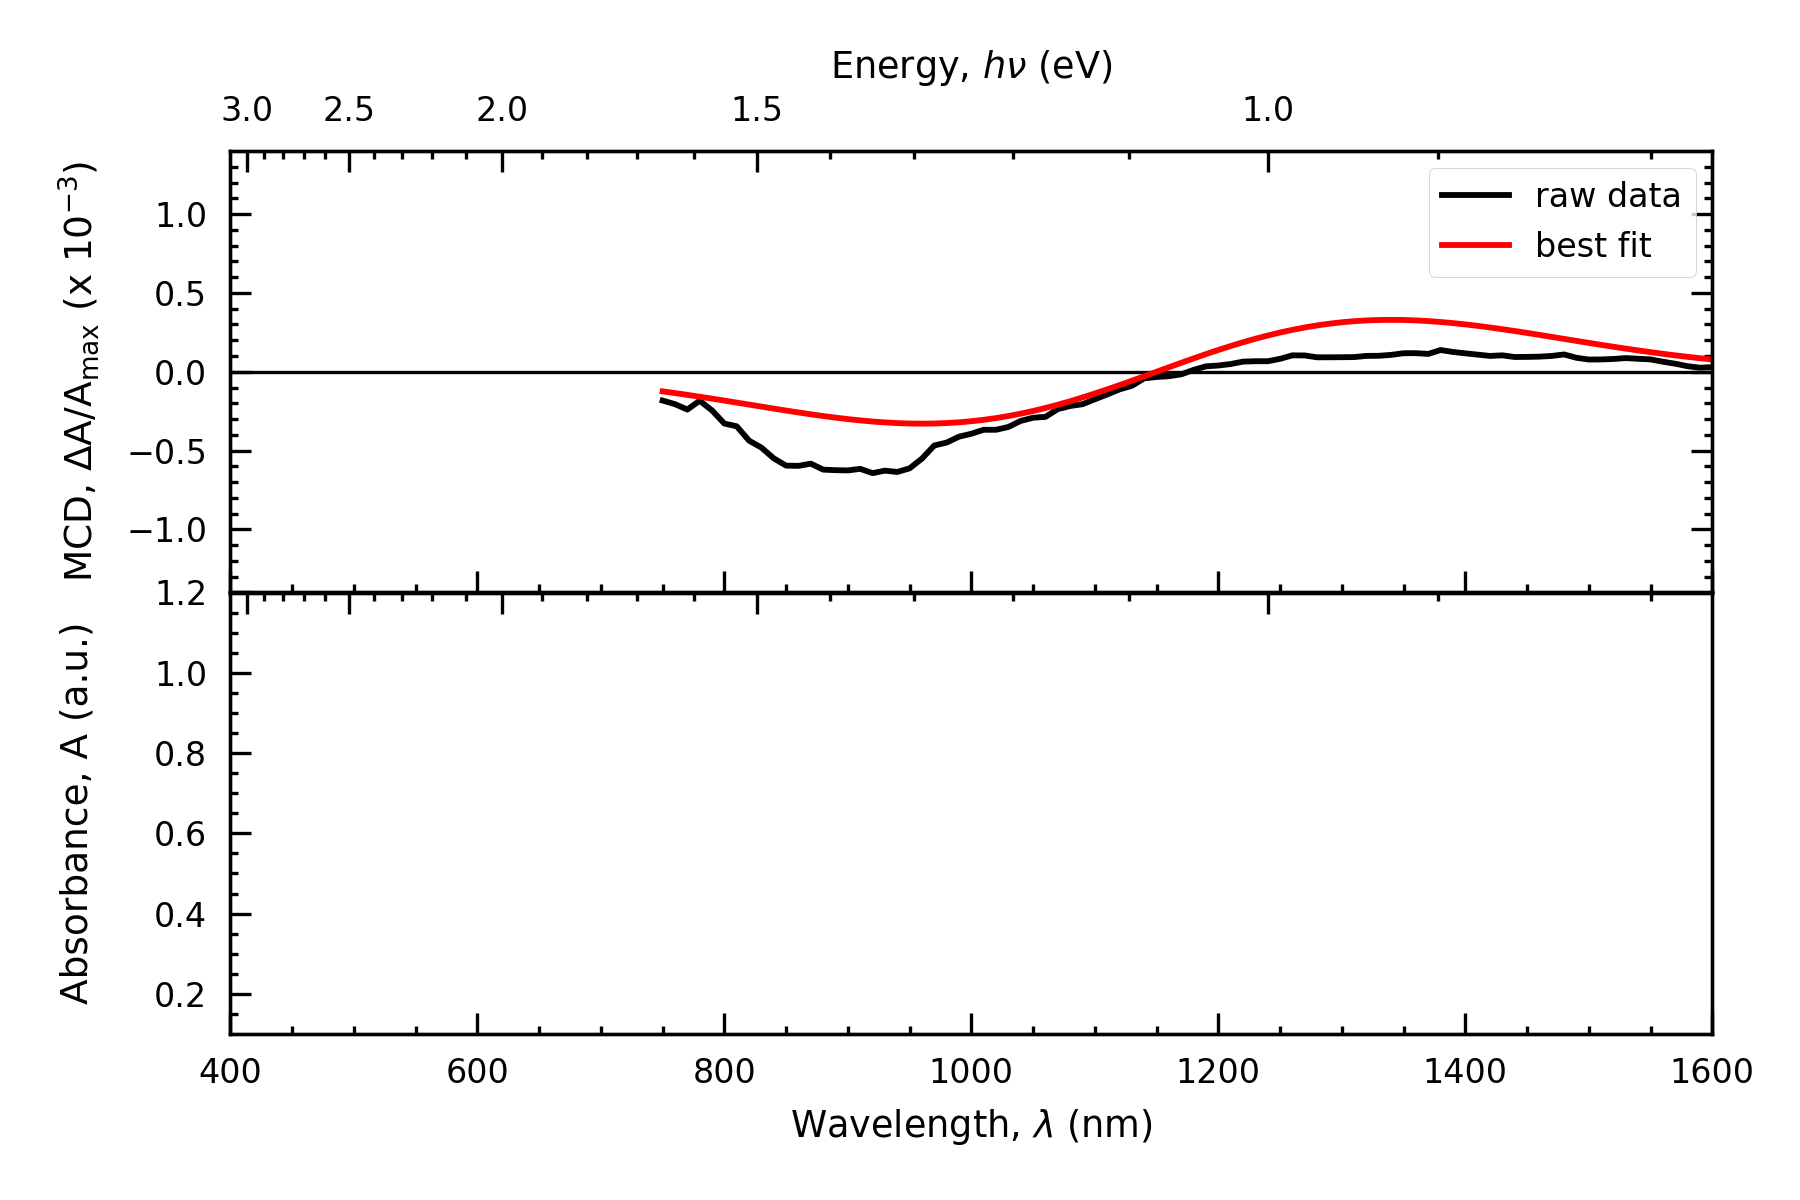
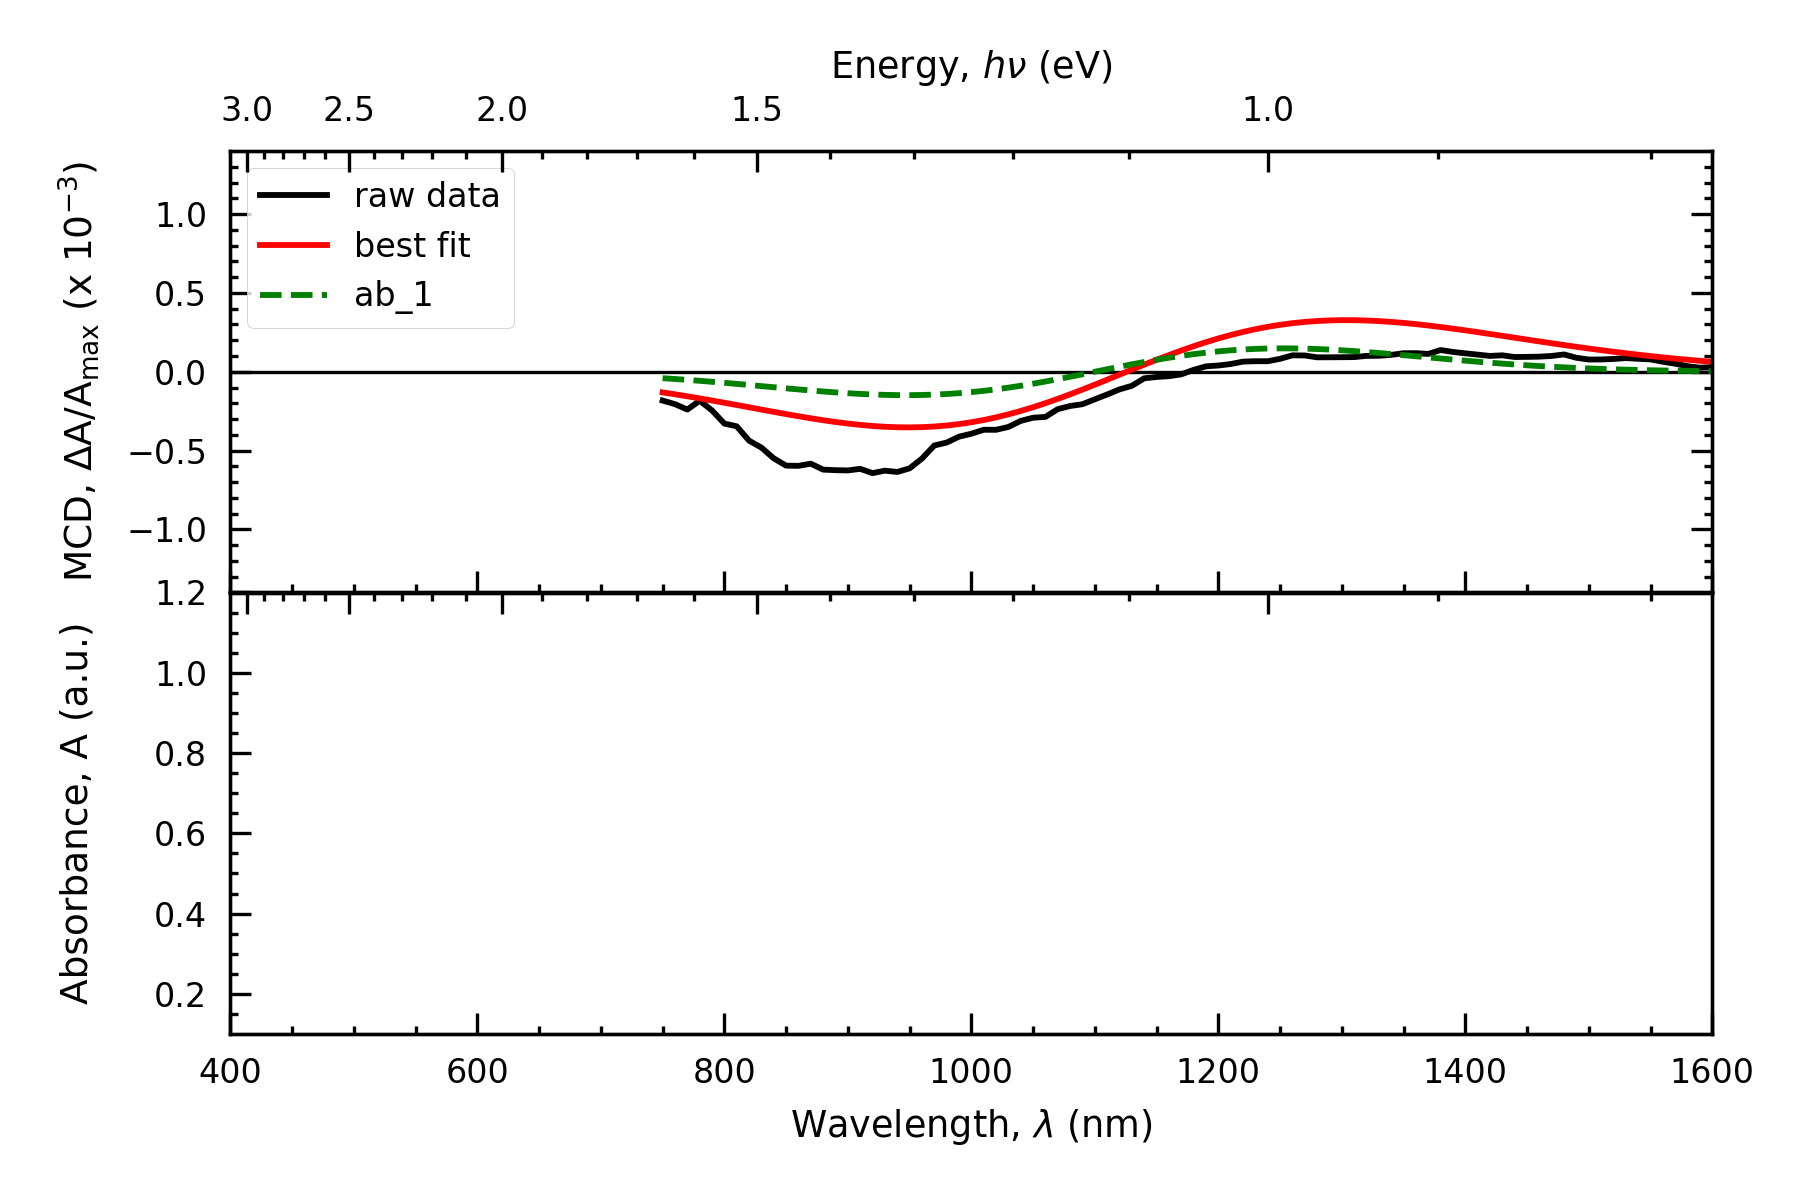
updated lambda and termftting .py

diff --git a/mcd/fitting/term_fitting.py b/mcd/fitting/term_fitting.py
@@ -11,6 +11,7 @@ from scipy import optimize
 from scipy.stats import linregress
 from matplotlib.ticker import (MultipleLocator, AutoMinorLocator)
 from lmfit.models import ExpressionModel
+from lmfit import Model
 
 def getWavelength(eV):
     return 1240/eV
@@ -227,33 +228,46 @@ if __name__ == '__main__':
     # a_term_model = ExpressionModel('ampA * (x-cen) * exp(-wid*(x-cen)**2)')
     # b_term_model = ExpressionModel('ampB * exp(-wid*(x-cen)**2)')
 
-    ab_term_model1 = ExpressionModel('ampA1 * (x-cen1) * exp(-wid1*(x-cen1)**2) + ampB1 * exp(-wid1*(x-cen1)**2)')
-    ab_term_model2 = ExpressionModel('ampA2 * (x-cen2) * exp(-wid2*(x-cen2)**2) + ampB2 * exp(-wid2*(x-cen2)**2)')
-    ab_term_model3 = ExpressionModel('ampA3 * (x-cen3) * exp(-wid3*(x-cen3)**2) + ampB3 * exp(-wid3*(x-cen3)**2)')
-    ab_term_model4 = ExpressionModel('ampA4 * (x-cen4) * exp(-wid4*(x-cen4)**2) + ampB2 * exp(-wid4*(x-cen4)**2)')
+    def ab_term_model1(x, ampA1, ampB1, cen1, wid1):
+        y = ampA1 * (x-cen1) * exp(-wid1*(x-cen1)**2) + ampB1 * exp(-wid1*(x-cen1)**2)
+        return y
 
-    pars = ab_term_model1.make_params()
+    def ab_term_model2(x, ampA2, ampB2, cen2, wid2):
+        y = ampA2 * (x-cen2) * exp(-wid2*(x-cen2)**2) + ampB2 * exp(-wid2*(x-cen2)**2)
+        return y
+
+    ab_term_model_total = Model(ab_term_model1) + Model(ab_term_model2)
+
+    
+
+    # ab_term_model1 = ExpressionModel('ampA1 * (x-cen1) * exp(-wid1*(x-cen1)**2) + ampB1 * exp(-wid1*(x-cen1)**2)')
+    # ab_term_model2 = ExpressionModel('ampA2 * (x-cen2) * exp(-wid2*(x-cen2)**2) + ampB2 * exp(-wid2*(x-cen2)**2)')
+    # ab_term_model3 = ExpressionModel('ampA3 * (x-cen3) * exp(-wid3*(x-cen3)**2) + ampB3 * exp(-wid3*(x-cen3)**2)')
+    # ab_term_model4 = ExpressionModel('ampA4 * (x-cen4) * exp(-wid4*(x-cen4)**2) + ampB2 * exp(-wid4*(x-cen4)**2)')
+
+    ### Might have to 
+
+    # ab_term_model_total = ab_term_model1 + ab_term_model2
+    
+    pars = ab_term_model_total.make_params()
     pars['ampA1'].set(value=0.002, min=0, max=2)
     pars['ampB1'].set(value=0, vary=False)
-    pars['cen1'].set(value=1150,vary=False)
+    pars['cen1'].set(value=1150, vary=False)
     pars['wid1'].set(fwhm(500))
-
-    pars.update(ab_term_model2.make_params())
     pars['ampA2'].set(value=0.002, min=0, max=2)
     pars['ampB2'].set(value=0, vary=False)
-    pars['cen2'].set(value=1100,vary=False)
+    pars['cen2'].set(value=1100, vary=False)
     pars['wid2'].set(fwhm(500))
 
-    ab_term_model_total = ab_term_model1+ab_term_model2
+    print(pars)
 
-    init_fit = ab_term_model_total.eval(pars, x=x)
+    # init_fit = ab_term_model_total.eval(pars, x=x)
     fitting_result = ab_term_model_total.fit(y, pars, x=x)
 
     print(fitting_result.fit_report(min_correl=0.5))
 
     comps = fitting_result.eval_components(x=x)
-    print(comps)
-
+    
     plt.clf()
     fig = plt.figure(figsize=(6,4))
     gs = gridspec.GridSpec(2,1, height_ratios=[1,1])
@@ -264,8 +278,8 @@ if __name__ == '__main__':
     ax1.plot(x, y, 'k-', label='raw data')
     # ax1.plot(x, fitting_result.init_fit, 'k--', label='initial fit')
     ax1.plot(x, fitting_result.best_fit, 'r-', label='best fit')
-    ax1.plot(x, comps[0],'g--',label='ab_1')
-    ax1.plot(x, comps[1],'m--',label='ab_2')
+    ax1.plot(x, list(comps.values())[0],'g--',label='ab_1')
+    ax1.plot(x, list(comps.values())[1],'m--',label='ab_2')
     ax1.legend(loc='best')
     ax2.set_xlabel(r'Wavelength, $\lambda$ (nm)')
     ax1.set_ylabel(r'MCD, $\Delta$A/A$_{\mathrm{max}}$ (x $10^{-3}$)',labelpad=6, size=9)

diff --git a/abs/lambda950/lambda950.py b/abs/lambda950/lambda950.py
@@ -1,8 +1,10 @@
+import sys
 import os
 import pandas as pd
 import numpy as np
 from matplotlib import pyplot as plt
 import seaborn as sns
+from matplotlib.ticker import (MultipleLocator, AutoMinorLocator)
 
 def parse_folder(path):
     d={}
@@ -26,42 +28,57 @@ def parse_folder(path):
                 pass
     return d, d2
 
-def plot_abs(dic,xdata='nm',title='[PH]'):
+def plot_abs(dic,xdata='nm',title='[PH]',save=''):
     fig,ax=plt.subplots(figsize=(8,4))
     for name, df in dic.items():
-        sns.lineplot(data=df,x=xdata,y=' A', linewidth=1, label=name, legend='brief')
+        sns.lineplot(data=df,x=xdata,y=' A', linewidth=1, label=name)
+        wavelength_peak = df.loc[df[' A'] == df[' A'].loc[150:1000].max(),'nm'].iloc[0]
+        print(str(wavelength_peak) + ' at ' + name.replace('.', ',').split(',')[1])
+        if xdata == 'nm':
+            plt.plot([wavelength_peak,wavelength_peak],[0,10],'k--',lw=0.8, label=str(wavelength_peak) + ' nm')
+        elif xdata == 'eV':
+            wavelength_peak = round(1240/wavelength_peak,4)
+            plt.plot([wavelength_peak,wavelength_peak],[0,10],'k--',lw=0.8, label=str(wavelength_peak) + ' eV')
     if xdata is 'nm':
         plt.xlabel('Wavelength (nm)')
+        plt.xlim(400,3000)
+        ax.xaxis.set_major_locator(MultipleLocator(200))
     if xdata is 'eV':
         plt.xlabel('Energy (eV)')
+        plt.xlim(4,0.5)
+        ax.xaxis.set_major_locator(MultipleLocator(0.5))
+    ax.xaxis.set_minor_locator(AutoMinorLocator())
+    plt.ylim(0,1.5)
     plt.title(title +' Absorbance')
     plt.ylabel('Absorbance (a.u.)')
-    # plt.xlim(1.55,.75)
-    # plt.ylim()
+
+    plt.legend(loc='best')
     plt.style.use('seaborn-paper')
-    plt.savefig(title + '_abs',dpi=200,bbox_inches='tight')
+    plt.savefig(save + title + '.png',dpi=200,bbox_inches='tight')
     plt.show()
 
-directory = '/mnt/c/users/roflc/Downloads/3-23-21_scan/'
-# sample_list_path = directory + 'Sample Table.csv'
+if __name__ == '__main__':
 
-sample_files, ref_files = parse_folder(directory)
-print(sample_files)
+    working_path = '/home/jkusz/github/igloo/abs/lambda950/testing/'
+    os.chdir(working_path)
 
-plot_abs(sample_files,title='CFS Tests')
+    data_path = '/mnt/c/users/roflc/Dropbox/Research/FSU/Strouse/Projects/WO3-x/UVVISNIR/WO2,9 scan/'
+    save_directory='/mnt/c/users/roflc/Dropbox/Research/FSU/Strouse/Projects/WO3-x/UVVISNIR/figures/'
+    # save_directory = '/home/jkusz/github/igloo/abs/lambda950/testing/'
 
-# xlabel='Wavelength (nm)'
-# ylabel='Abs'
+    # sample_list_path = directory + 'Sample Table.csv'
 
-# x=df[xlabel]
-# y=df[ylabel]
+    sample_files, ref_files = parse_folder(data_path)
+    # print(sample_files)
 
-# plt.plot(x,y,color='black')
-# plt.xlabel(xlabel)
-# plt.ylabel(ylabel)
-# plt.xlim(275,1100)
-# plt.ylim(0,1)
-# plt.show()
+    plot_abs(sample_files,title='WO2,9',save=save_directory)
+    plot_abs(sample_files,xdata='eV',title='WO2,9_eV',save=save_directory)
 
-# save_directory='/home/jkusz/github/igloo/abs/'
-# plt.savefig(save_directory+name+'.png',dpi=300)
+    # plt.plot(x,y,color='black')
+    # plt.xlabel(xlabel)
+    # plt.ylabel(ylabel)
+    # plt.xlim(320,2000)
+    # plt.ylim(0,1)
+    # plt.show()
+
+    
